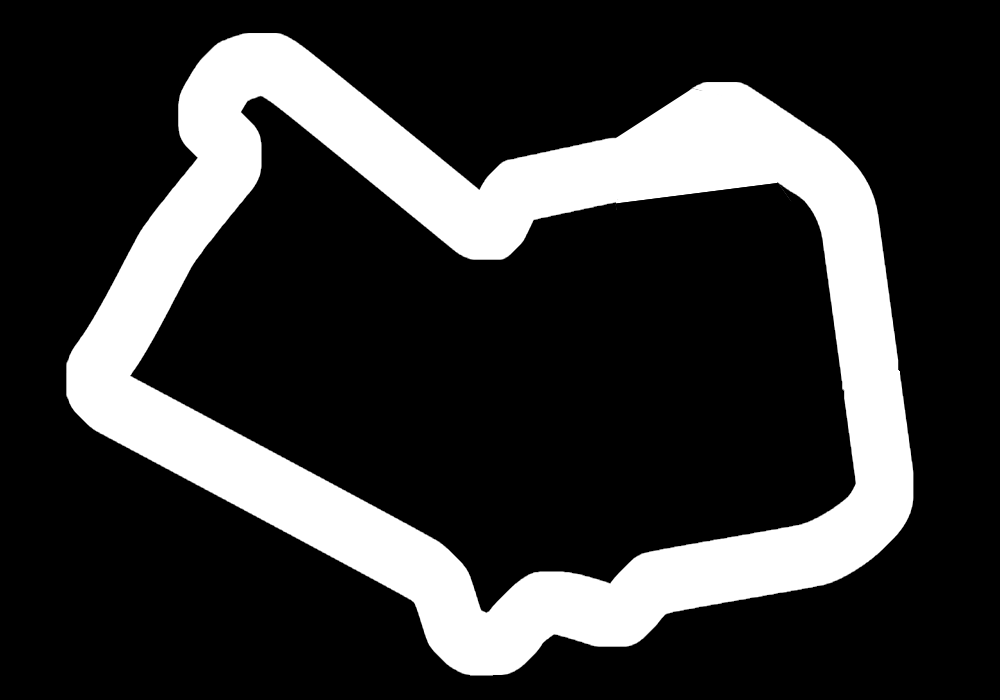
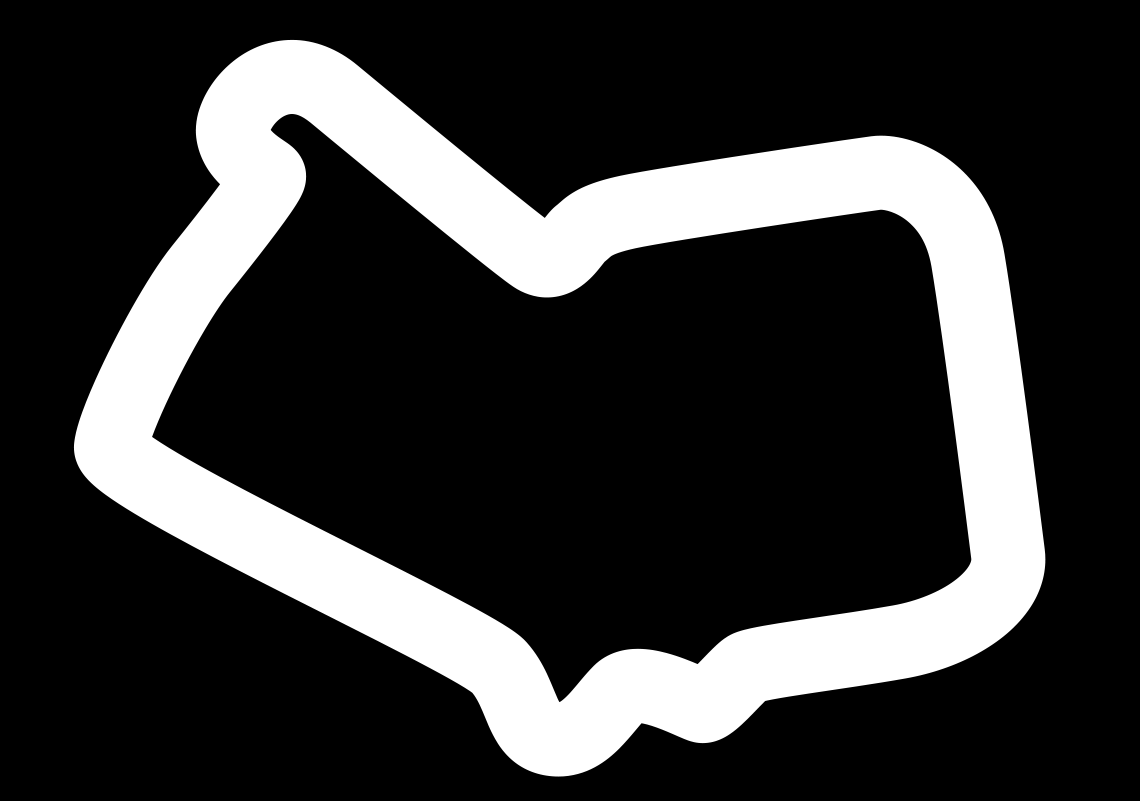
ai works

diff --git a/game.js b/game.js
@@ -1,9 +1,11 @@
-var game = new Phaser.Game(1000, 700, Phaser.CANVAS, 'game',{ preload: preload, create: create, update: update });
+var game = new Phaser.Game(1140, 801, Phaser.CANVAS, 'game',{ preload: preload, create: create, update: update });
 
-var bg, bitBg;
+var counter = 0;
+var bg,ai_bg, bitBg, ai_bit_bg;
 var TO_RADIANS = Math.PI/180;
-var slow_speed = 1;
-var normal_speed = 2;
+var slow_speed = 0.5;
+var normal_speed = 1.5;
+var com_speed = 1.4;
 var maxSpeed = 4;
 var car;
 var com_car;
@@ -13,16 +15,19 @@ var car_radius = Math.sqrt((car_width/2)*(car_width/2) + (car_height/2)*(car_hei
 
 function preload() {
   game.load.image('track-hit', 'assets/track-hit.png');
+  game.load.image('ai-map', 'assets/ai_map.png');
   game.load.image('car', 'assets/car.png');
 }
 
 function create() {
+  ai_bg = game.add.image(0, 0, 'ai-map');
   bg = game.add.image(0, 0, 'track-hit');
   bitBg = game.make.bitmapData();
   bitBg.load(bg);
-  getRgbByXY(500,600);
-  car = game.add.sprite(0,0, 'car');
-  com_car = game.add.sprite(600,500, 'car');
+  ai_bit_bg = game.make.bitmapData();
+  ai_bit_bg.load(ai_bg);
+
+  car = game.add.sprite(1000,550, 'car');
   
   game.physics.enable(car, Phaser.Physics.ARCADE);
   car.body.collideWorldBounds = true;
@@ -40,14 +45,21 @@ function create() {
   car.top_right.angle = Math.atan2(car.top_right.x - car.center_point.x,car.center_point.y - car.top_right.y); 
  
   
+  com_car = game.add.sprite(1000,500, 'car');
   game.physics.enable(com_car, Phaser.Physics.ARCADE);
   com_car.body.collideWorldBounds = true;
   com_car.body.bounce.setTo(1,1); 
-
   
   com_car.anchor.setTo(0.5,0.5);
   com_car.rotationStep = 4;
   com_car.angle = 0;
+  com_car.top_left = {x:com_car.x,y:com_car.y,angle:0};
+  com_car.top_right = {x:com_car.x + car_width,y:com_car.y,angle:0};
+  com_car.speed = com_speed; 
+
+  com_car.top_left.angle = Math.atan2(com_car.top_left.x - com_car.x,com_car.y - com_car.top_left.y); 
+  com_car.top_right.angle = Math.atan2(com_car.top_right.x - com_car.x,com_car.y - com_car.top_right.y);
+  //create counter
 }
 
 function update() {
@@ -59,30 +71,49 @@ function update() {
   else if (game.input.keyboard.isDown(Phaser.Keyboard.RIGHT))
   {
     steerRight(car);
+  }else if(game.input.keyboard.isDown(Phaser.Keyboard.SPACEBAR)) {
+    if(car.speed < maxSpeed) {
+      console.log("boost----"+car.speed);
+      car.speed += 0.1; 
+    } 
   }
   car_top_left_point_update(car);
   car_top_right_point_update(car);
+  car_top_left_point_update(com_car);
+  car_top_right_point_update(com_car);
+  
   //stear cars
+  // if(getRgbByXYMainMap(car.top_left.x,car.top_left.y) == "#000000") {
+  //   car.rotationStep = 128;
+  //   steerRight(car); 
+  // }
   
-  if(getRgbByXY(car.top_left.x,car.top_left.y) == "#000000") {
-    car.rotationStep = 64;
-    steerRight(car); 
-  }
+  // if(getRgbByXYMainMap(car.top_right.x,car.top_right.y) == "#000000") {
+  //   car.rotationStep = 128;
+  //   steerLeft(car); 
+  // }
   
-  if(getRgbByXY(car.top_right.x,car.top_right.y) == "#000000") {
-    car.rotationStep = 64;
-    steerLeft(car); 
-  }
-  
-  if(getRgbByXY(car.top_right.x,car.top_right.y) == "#000000" && getRgbByXY(car.top_left.x,car.top_left.y) == "#000000") {
+  if(getRgbByXYMainMap(car.top_right.x,car.top_right.y) == "#000000" || getRgbByXYMainMap(car.top_left.x,car.top_left.y) == "#000000") {
     car.speed = slow_speed; 
-  }else {
-    car.speed = normal_speed; 
   }
+
+  //computer cars
+  if(getRgbByXYAIMap(com_car.top_left.x,com_car.top_left.y) == "#ce470d") {
+    com_car.rotationStep = 16;
+    steerRight(com_car); 
+  }
+  
+  if(getRgbByXYAIMap(com_car.top_right.x,com_car.top_right.y) == "#9cce4d") {
+    com_car.rotationStep = 16;
+    steerLeft(com_car); 
+  }
+  //computer cars
   
   moveCar(car);
-  //moveCar(com_car);
+  moveCar(com_car);
 }
+
+
 
 function render() {
 
@@ -102,6 +133,7 @@ function moveCar(car) {
   var speedAxis = speedXY(car.angle, car.speed);
   car.x += speedAxis.x;
   car.y += speedAxis.y;
+  car.distance ++;
 }
 
 function speedXY (rotation, speed) {
@@ -132,7 +164,12 @@ function car_top_right_point_update(car) {
 }
 
 //return hex color format
-function getRgbByXY(x,y) {
+function getRgbByXYMainMap(x,y) {
   var rgbObj = bitBg.getPixelRGB(Math.round(x), Math.round(y));
+  return Phaser.Color.RGBtoString(rgbObj.r,rgbObj.g,rgbObj.b);
+}
+
+function getRgbByXYAIMap(x,y) {
+  var rgbObj = ai_bit_bg.getPixelRGB(Math.round(x), Math.round(y));
   return Phaser.Color.RGBtoString(rgbObj.r,rgbObj.g,rgbObj.b);
 }
